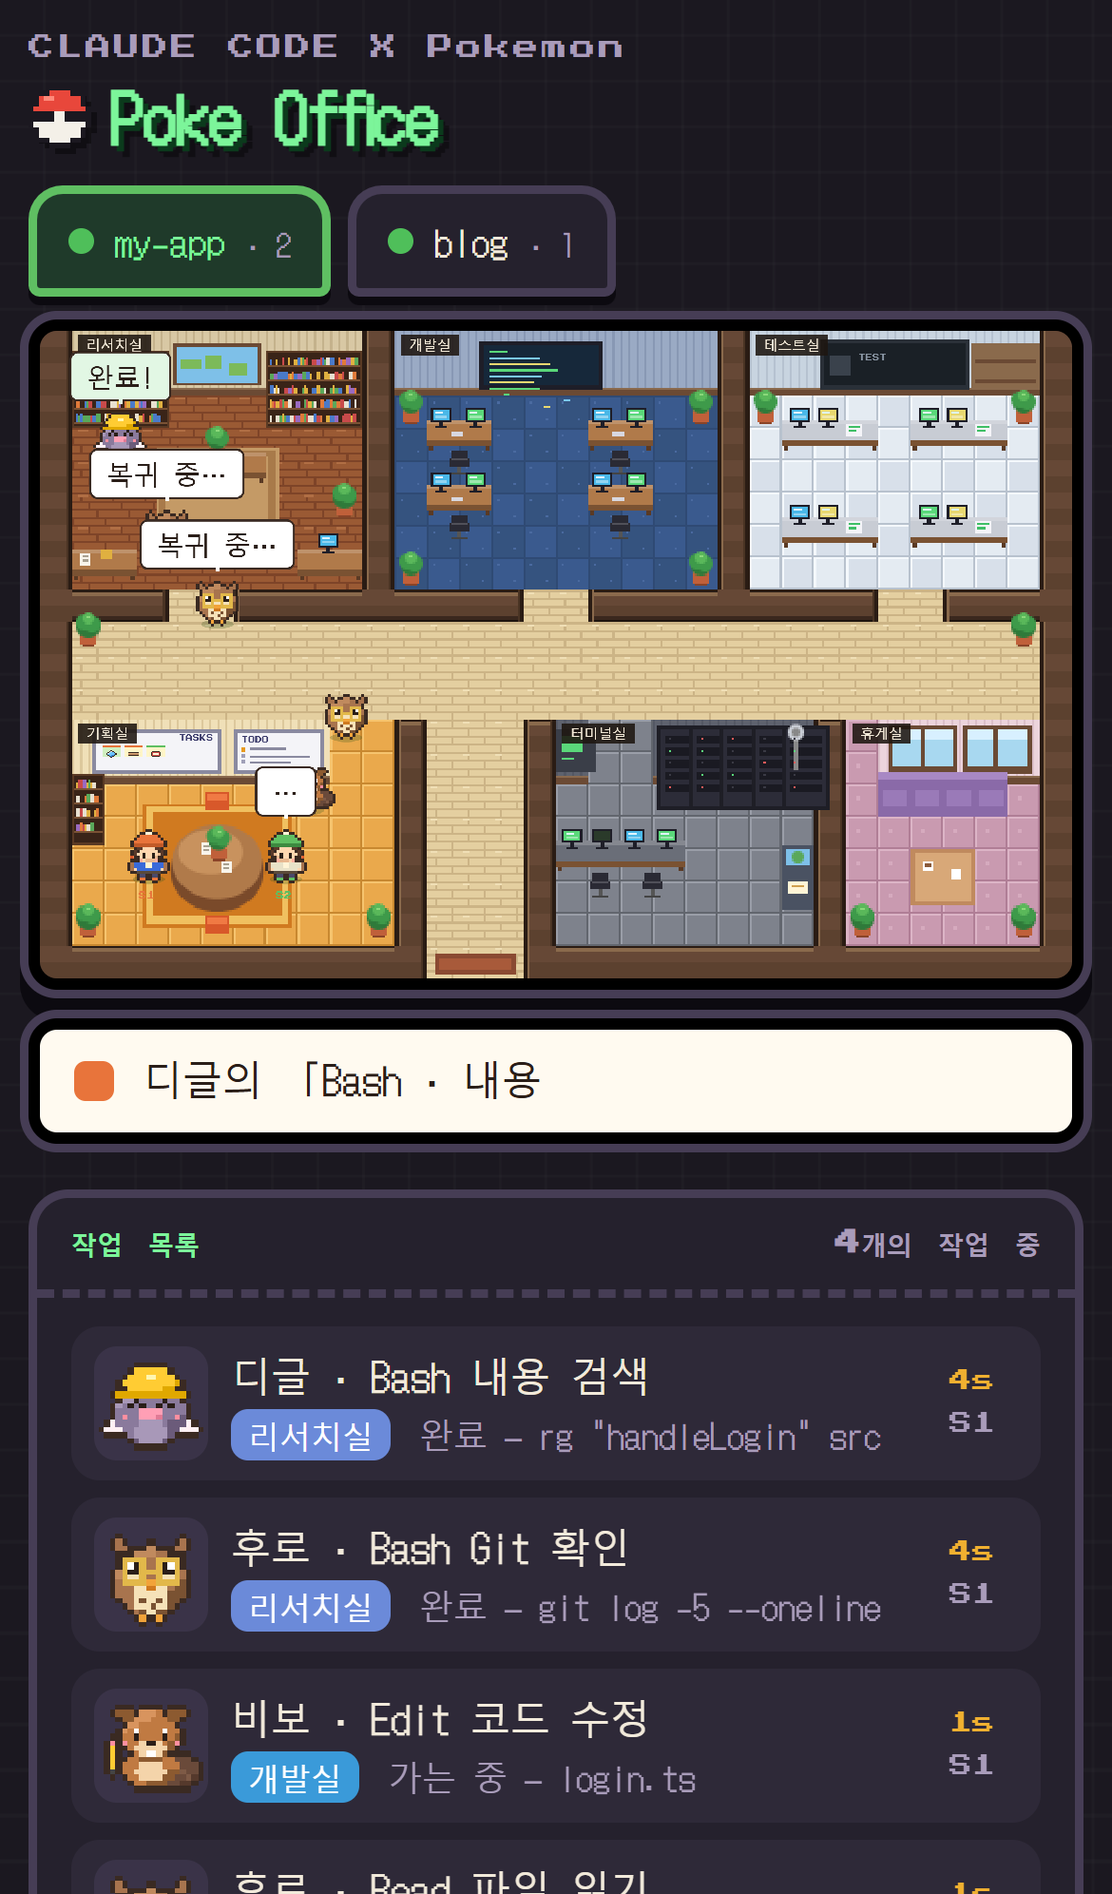
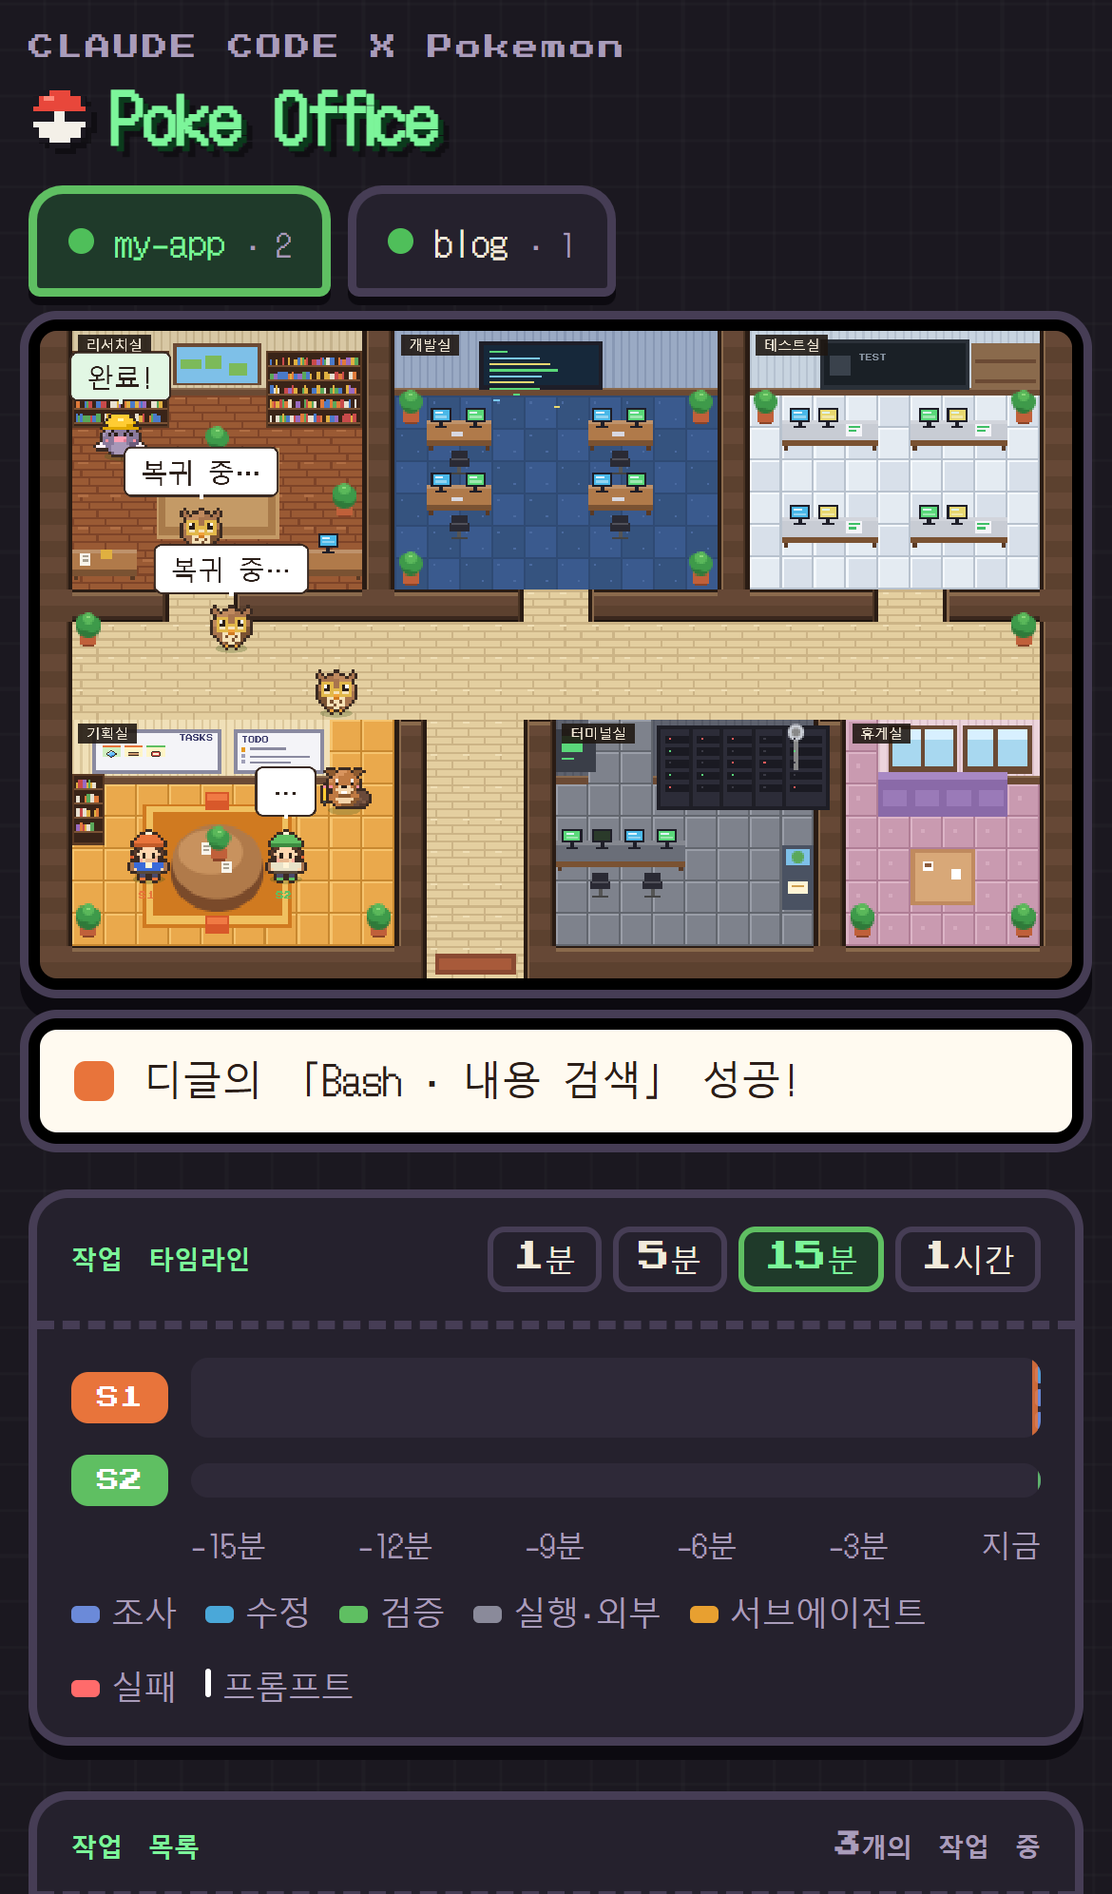
feat: work timeline, manual session finder, and usage-limit HP bars
- Timeline under the office shows each session's tool runs as room-colored blocks (1m/5m/15m/1h)
- Session finder button loads Claude Code sessions written in the last hour from the transcript folder
- Header shows remaining 5-hour and weekly limits as HP bars when the status line cache exists

diff --git a/index.html b/index.html
@@ -108,6 +108,27 @@ pre{font-size:11.5px;background:#14111a;border-radius:10px;padding:8px;overflow:
 .tip{position:fixed;z-index:40;pointer-events:none;max-width:260px;padding:6px 10px;background:#fffaf0;color:#2a1e18;border:3px solid #2a1e18;border-radius:6px;box-shadow:0 0 0 2px #fffaf0,0 0 0 5px #4a4a5e,0 6px 0 5px rgba(0,0,0,.35);font-size:12.5px;line-height:1.5}
 .tip[hidden]{display:none}.tip b{font-size:13.5px}.tip .st{display:inline-block;margin-left:6px;padding:0 5px;border-radius:4px;font-size:11px;color:#fff}
 .tip small{display:block;margin-top:2px;color:#8a7a68;font-size:11px}
+.mini{padding:3px 8px;font-size:11.5px;border-width:2px;border-radius:7px;box-shadow:0 2px 0 var(--shadow)}
+.mini:disabled{opacity:.4;cursor:default}
+#tlPanel{margin-top:16px}
+.rng{display:flex;gap:4px}.rng button{padding:2px 7px;font-size:11px;border-width:2px;border-radius:6px;box-shadow:none}
+.tlrow{display:grid;grid-template-columns:34px 1fr;gap:8px;align-items:center;margin-bottom:6px}
+.tlwho{font-family:'Press Start 2P',monospace;font-size:8px;color:#fff;text-align:center;padding:5px 0;border-radius:6px}
+.tltrack{position:relative;background:var(--panel2);border-radius:6px;overflow:hidden}
+.tltrack .blk{position:absolute;height:6px;min-width:3px;border-radius:2px;cursor:pointer}
+.tltrack .blk:hover{outline:2px solid #fff;z-index:2}
+.tltrack .blk.run{animation:pulse 1s infinite}.tltrack .blk.fail{background:#ff6b6b!important;box-shadow:0 0 0 1px #ffd0d0}
+.tltrack .mk{position:absolute;top:0;bottom:0;width:2px;opacity:.85;cursor:pointer}
+.tlaxis{display:flex;justify-content:space-between;margin:2px 0 0 42px;font-size:10.5px;color:var(--quiet)}
+.tllegend{display:flex;gap:10px;flex-wrap:wrap;margin-top:8px;font-size:11.5px;color:var(--quiet)}
+.tllegend i{display:inline-block;width:10px;height:6px;border-radius:2px;margin-right:4px;vertical-align:1px}
+.limits{display:flex;gap:10px;flex-wrap:wrap}
+.hp{min-width:190px;padding:6px 10px 5px;background:#f6f2e4;color:#2a1e18;border:3px solid #2a1e18;border-radius:8px 8px 8px 2px;box-shadow:0 0 0 2px #f6f2e4,0 0 0 5px #4a4a5e}
+.hp .top{display:flex;justify-content:space-between;align-items:baseline;gap:8px;font-size:12.5px}.hp .top b{font-size:13px}
+.hp .bar{display:flex;align-items:center;gap:5px;margin:3px 0 1px}
+.hp .bar span{font-family:'Press Start 2P',monospace;font-size:7px;color:#f8b030;background:#3a3a4a;padding:2px 3px;border-radius:3px}
+.hp .bar div{flex:1;height:8px;background:#5a5a6a;border:2px solid #3a3a4a;border-radius:5px;overflow:hidden}.hp .bar i{display:block;height:100%;transition:width .6s}
+.hp small{display:block;font-size:10.5px;color:#7a6a58;text-align:right}
 footer{margin-top:18px;color:var(--quiet);font-size:12px;line-height:1.6}
 .speed{display:flex;gap:4px}
 </style>
@@ -119,6 +140,7 @@ footer{margin-top:18px;color:var(--quiet);font-size:12px;line-height:1.6}
       <div class="kicker">CLAUDE CODE X Pokemon</div>
       <h1><svg class="pball" viewBox="0 0 12 12" shape-rendering="crispEdges" aria-hidden="true"><path fill="#1b1820" d="M4 0h4v1h2v1h1v2h1v4h-1v2h-1v1h-2v1H4v-1H2v-1H1V8H0V4h1V2h1V1h2z"/><path fill="#e8473b" d="M4 1h4v1h2v2h1v1H1V4h1V2h2z"/><path fill="#ff8a7a" d="M3 2h2v1H3z"/><path fill="#f4f0e8" d="M1 7h10v1h-1v2H8v1H4v-1H2V8H1z"/><path fill="#1b1820" d="M1 5h10v2H1z"/><path fill="#f4f0e8" d="M5 5h2v2H5z"/></svg>Poke Office</h1>
     </div>
+    <div class="limits" id="limits" hidden></div>
   </header>
 
   <div class="grid">
@@ -131,6 +153,10 @@ footer{margin-top:18px;color:var(--quiet);font-size:12px;line-height:1.6}
       <div class="towns" id="towns"></div>
       <div class="stage"><canvas id="office" width="2048" height="1280" aria-label="픽셀 사무실"></canvas></div>
       <div id="dlgBox"><i id="dlgDot"></i><span id="dlgText"></span><button class="more" id="dlgMore" hidden title="더보기">▾</button></div>
+      <section class="panel" id="tlPanel">
+        <h2>작업 타임라인 <span class="rng" id="tlRange"><button data-m="1">1분</button><button data-m="5">5분</button><button data-m="15" class="on">15분</button><button data-m="60">1시간</button></span></h2>
+        <div class="body"><div id="tl"></div><div class="tllegend" id="tlLegend"></div></div>
+      </section>
     </div>
 
     <div class="side">
@@ -140,7 +166,7 @@ footer{margin-top:18px;color:var(--quiet);font-size:12px;line-height:1.6}
       </section>
 
       <section class="panel">
-        <h2>세션</h2>
+        <h2>세션 <span style="display:flex;gap:6px;align-items:center"><span id="findMsg" style="font-family:inherit;font-size:11px;color:var(--quiet)"></span><button class="mini" id="findSess" title="최근 1시간 안에 쓴 Claude Code 세션을 찾아요">세션 찾기</button></span></h2>
         <div class="body" id="sessList"></div>
       </section>
 
@@ -465,7 +491,7 @@ const now={t:0};let speed=1,paused=false;const timers=[];const sleep=ms=>new Pro
 const towns=new Map();let active=null;const dexStats={};ROLES.forEach(r=>dexStats[r]={count:0,last:''});
 let LIVE=false;const IDLE_MS=()=>LIVE?5*60e3:30e3;
 function getTown(name){let t=towns.get(name);if(t)return t;
-  t={name,trainers:new Map(),mons:[],jobs:[],todos:[],growth:{done:0,edits:0,plants:0,trophies:0},lastTest:null,ticker:[],fx:[]};
+  t={name,trainers:new Map(),mons:[],jobs:[],hist:[],marks:[],todos:[],growth:{done:0,edits:0,plants:0,trophies:0},lastTest:null,ticker:[],fx:[]};
   towns.set(name,t);if(!active)active=name;renderTowns();return t;}
 function mkMon(role,helper,at){const p=at||randomFloor(HAB[role].room);return{role,helper,x:p.x,y:p.y,path:[],state:'wander',pause:rand(300,2500),idle:0,job:null,face:1,t:0,carry:false};}
 function goTo(o,x,y){o.path=findPath(o.x,o.y,x,y);}
@@ -491,7 +517,7 @@ function handleEvent(ev){
   const act=resolveAction(ev.tool,ev);const role=act.role;
   switch(ev.kind){
     case 'session_start':break;
-    case 'prompt':toSeat(tr);tr.prompt=ev.full||ev.detail||'';tr.state='think';tr.bubble=`"${(ev.detail||'').slice(0,16)}"`;setTimeout(()=>{if(tr.bubble&&tr.bubble.startsWith('"'))tr.bubble='…';},2500/speed);
+    case 'prompt':toSeat(tr);tr.prompt=ev.full||ev.detail||'';town.marks.push({t:now.t,wall:Date.now(),tr,text:tr.prompt});if(town.marks.length>200)town.marks.shift();tr.state='think';tr.bubble=`"${(ev.detail||'').slice(0,16)}"`;setTimeout(()=>{if(tr.bubble&&tr.bubble.startsWith('"'))tr.bubble='…';},2500/speed);
 
       ticker(town,`${tname(tr)}: "${tr.prompt||'새 지시'}"`,tr);log('prompt',`${town.name}·${tr.no} ${tr.prompt}`);break;
     case 'tool_start':
@@ -518,14 +544,14 @@ function releaseMon(town,tr,mo){mo.owner=tr;const p=besideTrainer(town,tr);mo.x=
 function recallMon(town,mo){const tr=mo.owner;if(!tr||!town.trainers.has(tr.id)){mo.state='vanish';mo.t=350;town.fx.push({type:'poof',x:mo.x,y:mo.y-10,t:0});return;}
   mo.state='return';const p=besideTrainer(town,tr);goTo(mo,p.x,p.y);}
 function newJob(town,tr,ev,act){const role=act.role;const job={id:ev.id||`${ev.session}:${ev.tool}:${now.t}:${Math.random()}`,tool:act.tool,rawTool:ev.tool,label:act.label,key:`${ev.session}:${ev.tool}`,role,detail:ev.detail||ev.tool,full:ev.full||ev.cmd||ev.detail||ev.tool,tr,ok:undefined,start:now.t,endAt:null,mon:null};
-  town.jobs.push(job);tr.state='think';town.restMode=false;
+  job.wall=Date.now();town.jobs.push(job);town.hist.push(job);if(town.hist.length>800)town.hist.shift();tr.state='think';town.restMode=false;
   const mon=mkMon(role,false,{x:tr.x,y:tr.y});town.mons.push(mon);releaseMon(town,tr,mon);
   mon.job=job;job.mon=mon;
   ticker(town,`${tname(tr)}: 가라, ${nameOf(role)}! — 「${actText(act)}」 ${job.detail} (${HAB[role].name})`,tr);log('tool_start',`${town.name}·${tr.no} ${ev.tool} (${act.label}): ${job.full}`);}
 function findJob(town,tr,ev){let j=ev.id&&town.jobs.find(x=>x.id===ev.id&&x.ok===undefined);if(!j)j=town.jobs.find(x=>x.key===`${ev.session}:${ev.tool}`&&x.ok===undefined);if(!j)j=town.jobs.find(x=>x.rawTool===ev.tool&&x.ok===undefined);return j;}
-function spawnSub(town,tr,ev){const mo=mkMon('sub',true,{x:tr.x,y:tr.y});mo.subOf=tr.id;mo.job={detail:ev.detail||'조사'};mo.afterAppear='subwork';town.mons.push(mo);releaseMon(town,tr,mo);
+function spawnSub(town,tr,ev){const mo=mkMon('sub',true,{x:tr.x,y:tr.y});mo.subOf=tr.id;mo.job={detail:ev.detail||'조사',full:ev.full||ev.detail};const rec={role:'sub',tool:'Agent',label:'서브에이전트',detail:ev.detail||'조사',full:ev.full||ev.detail||'',tr,start:now.t,wall:Date.now(),endAt:null,ok:undefined};town.hist.push(rec);mo.rec=rec;mo.afterAppear='subwork';town.mons.push(mo);releaseMon(town,tr,mo);
   ticker(town,`${tname(tr)}의 「Agent · 서브에이전트 출동」! ${josa(nameOf('sub'),'이/가')} 조사하러 나갔다: ${ev.detail||''}`,tr);log('sub',`${town.name}·${tr.no} Task ${ev.detail||''}`);dexStats.sub.count++;dexStats.sub.last=ev.detail||'';renderDex();}
-function endSub(town,tr){const mo=town.mons.find(m=>m.role==='sub'&&m.subOf===tr.id&&!['return','recall','vanish'].includes(m.state));if(!mo)return;mo.carry=true;recallMon(town,mo);
+function endSub(town,tr){const mo=town.mons.find(m=>m.role==='sub'&&m.subOf===tr.id&&!['return','recall','vanish'].includes(m.state));if(!mo)return;if(mo.rec){mo.rec.endAt=now.t;mo.rec.ok=true;}mo.carry=true;recallMon(town,mo);
   ticker(town,`${josa(nameOf('sub'),'이/가')} 조사 결과를 들고 돌아왔다!`,tr);log('sub',`${town.name}·${tr.no} SubagentStop`);}
 function sendRest(){}
 
@@ -589,7 +615,48 @@ function fitMore(d,title,body,raw){const btn=d.querySelector('.more');if(!btn)re
   const shown=[...d.querySelectorAll('.txt > div')];const over=shown.some(x=>x.scrollWidth>x.clientWidth+1);
   const longer=raw&&!shown.some(x=>x.textContent.includes(raw));btn.hidden=!(over||longer);
   btn.onclick=e=>{e.stopPropagation();openModal(title,body||shown.map(x=>x.textContent).join('\n'));};}
-function renderSide(){renderWork();renderSessions();}
+function renderSide(){renderWork();renderSessions();renderTimeline();}
+// 작업 타임라인: 세션(트레이너)마다 한 줄, 툴 실행을 방 색 블록으로. 겹치는 작업은 아래 칸으로 내려요
+let TLW=15*60e3,tlItems=[];
+const roleColor=r=>r==='sub'?ROOMS.plan.tag:ROOMS[HAB[r].room].tag;
+const wallClock=w=>new Date(w).toTimeString().slice(0,8);
+function renderTimeline(){const el=$('tl');if(!el)return;const t=towns.get(active);tlItems=[];
+  const t1=now.t,t0=t1-TLW,pct=v=>Math.max(0,Math.min(100,(v-t0)/TLW*100));
+  const items=t?t.hist.filter(j=>(j.endAt??t1)>=t0):[],marks=t?t.marks.filter(m=>m.t>=t0):[];
+  if(!items.length&&!marks.length){el.innerHTML='<div class="empty">이 시간 동안 기록된 작업이 없어요.<br><span style="font-size:12px">Claude Code가 툴을 쓰면 여기에 시간순으로 쌓여요.</span></div>';$('tlLegend').innerHTML='';return;}
+  const rows=new Map();const rowOf=tr=>{if(!rows.has(tr.no))rows.set(tr.no,{tr,blocks:[],marks:[]});return rows.get(tr.no);};
+  items.forEach(j=>rowOf(j.tr).blocks.push(j));marks.forEach(m=>rowOf(m.tr).marks.push(m));
+  let html='';
+  [...rows.values()].sort((a,b)=>a.tr.no-b.tr.no).forEach(row=>{const lanes=[];
+    const blks=row.blocks.sort((a,b)=>a.start-b.start).map(j=>{const end=j.endAt??t1;let l=lanes.findIndex(e=>e<=j.start);if(l<0){l=lanes.length;lanes.push(0);}lanes[l]=end;return{j,end,l};});
+    const n=Math.max(1,lanes.length);let inner='';
+    blks.forEach(({j,end,l})=>{const i=tlItems.push({type:'job',j})-1;const cls=j.ok===undefined?'run':j.ok?'':'fail';
+      inner+=`<i class="blk ${cls}" data-i="${i}" style="left:${pct(j.start)}%;width:${Math.max(.35,pct(end)-pct(j.start))}%;top:${3+l*8}px;background:${roleColor(j.role)}"></i>`;});
+    row.marks.forEach(m=>{const i=tlItems.push({type:'mark',m})-1;inner+=`<i class="mk" data-i="${i}" style="left:${pct(m.t)}%;background:${HATS[m.tr.color][0]}"></i>`;});
+    html+=`<div class="tlrow"><div class="tlwho" style="background:${HATS[row.tr.color][0]}">S${row.tr.no}</div><div class="tltrack" style="height:${n*8+4}px">${inner}</div></div>`;});
+  // 눈금은 딱 떨어지게: 1분=15초 간격, 5분=1분, 15분=3분, 1시간=15분
+  const m=TLW/60e3,n={1:4,5:5,15:5,60:4}[m]||4,lab=v=>v<1?`${Math.round(v*60)}초`:`${v}분`;
+  html+=`<div class="tlaxis">${Array.from({length:n},(_,i)=>`<span>-${lab(m*(n-i)/n)}</span>`).join('')}<span>지금</span></div>`;
+  el.innerHTML=html;
+  if(!$('tlLegend').innerHTML)$('tlLegend').innerHTML=[['research','조사'],['dev','수정'],['test','검증'],['term','실행·외부'],['plan','서브에이전트']].map(([k,n])=>`<span><i style="background:${ROOMS[k].tag}"></i>${n}</span>`).join('')+'<span><i style="background:#ff6b6b"></i>실패</span><span><i style="background:#fff;width:2px;height:10px"></i>프롬프트</span>';}
+function tlInfo(it){if(it.type==='mark'){const m=it.m;return{title:`${tname(m.tr)} · 프롬프트`,tip:`<b>${tname(m.tr)}</b><span class="st" style="background:${HATS[m.tr.color][0]}">프롬프트</span><br>"${esc(m.text.slice(0,60))}${m.text.length>60?'…':''}"<small>${wallClock(m.wall)} · 클릭하면 전체 보기</small>`,body:`보낸 시각: ${wallClock(m.wall)}\n\n${m.text}`};}
+  const j=it.j,st=j.ok===undefined?'진행 중':j.ok?'완료':'실패',dur=fmtSec((j.endAt??now.t)-j.start);
+  return{title:`${tname(j.tr)} · ${j.tool} ${j.label}`,tip:`<b>${esc(j.tool)} · ${esc(j.label)}</b><span class="st" style="background:${j.ok===false?'#e85a5a':roleColor(j.role)}">${st}</span><br>${esc(String(j.detail||'').slice(0,50))}<small>${tname(j.tr)} · ${wallClock(j.wall)} 시작 · ${dur}</small>`,
+    body:`상태: ${st}\n시작: ${wallClock(j.wall)} · 걸린 시간: ${dur}\n담당: ${nameOf(j.role)} (${j.role==='sub'?'기획실':HAB[j.role].name})\n\n${j.full||j.detail}`};}
+$('tl').addEventListener('mousemove',e=>{const b=e.target.closest('[data-i]');if(!b)return showTip(null,'');const it=tlItems[+b.dataset.i];if(it)showTip(e,tlInfo(it).tip);});
+$('tl').addEventListener('mouseleave',()=>showTip(null,''));
+$('tl').addEventListener('click',e=>{const b=e.target.closest('[data-i]');if(!b)return;const it=tlItems[+b.dataset.i];if(!it)return;const x=tlInfo(it);showTip(null,'');openModal(x.title,x.body);});
+document.querySelectorAll('#tlRange button').forEach(b=>b.onclick=()=>{document.querySelectorAll('#tlRange button').forEach(x=>x.classList.toggle('on',x===b));TLW=+b.dataset.m*60e3;renderTimeline();});
+// 세션 찾기: 훅이 아직 안 들어온(이미 열려 있던) Claude Code 세션도 대화 기록 폴더에서 찾아 트레이너로 불러와요
+async function findSessions(){const btn=$('findSess'),msg=$('findMsg');if(!SRC.server){msg.textContent='서버에서만 쓸 수 있어요';return;}
+  btn.disabled=true;msg.textContent='찾는 중…';
+  try{const list=await(await fetch('api/sessions?minutes=60',{cache:'no-store'})).json();let added=0;
+    list.forEach(x=>{const name=String(x.cwd).split(/[\\/]/).filter(Boolean).pop()||'my-project';const t=towns.get(name);if(t&&t.trainers.has(x.session))return;
+      handleEvent({kind:'session_start',session:x.session,cwd:x.cwd});const tr=getTown(name).trainers.get(x.session);if(tr&&x.prompt)tr.prompt=x.prompt;added++;});
+    msg.textContent=added?`${added}개 찾았어요`:list.length?'새 세션이 없어요':'최근 1시간 안에 쓴 세션이 없어요';log('session',`세션 찾기: ${added}개 추가 (최근 1시간 ${list.length}개)`);renderTowns();renderSide();}
+  catch{msg.textContent='찾지 못했어요';}
+  btn.disabled=false;setTimeout(()=>{msg.textContent='';},4000);}
+$('findSess').onclick=findSessions;
 function renderWork(){const t=towns.get(active);const el=$('workList');if(!el)return;
   const jobs=t?t.jobs:[];const subs=t?t.mons.filter(m=>m.role==='sub'&&m.state==='subwork'):[];
   {const n=jobs.length+subs.length;$('workSum').textContent=n?`${n}개의 작업 중`:'';}
@@ -613,7 +680,16 @@ function renderSessions(){const t=towns.get(active);const el=$('sessList');if(!e
     c.querySelector('.a').textContent=`${tname(tr)} · ${st}`;c.querySelector('.b').textContent=tr.prompt?`"${tr.prompt}"`:`세션 ID: ${String(tr.id).slice(0,8)}`;el.appendChild(c);fitMore(c,`${tname(tr)} · ${st}`,tr.prompt?`보낸 프롬프트\n\n${tr.prompt}`:'',tr.prompt);});
   if(t.todos.length){const d=document.createElement('div');d.style.cssText='margin-top:8px;font-size:13px;line-height:1.7';d.innerHTML='<div class="muted" style="font-size:12px">화이트보드 할 일</div>';
     t.todos.forEach(td=>{const x=document.createElement('div');x.textContent=(td.s==='done'?'☑ ':td.s==='doing'?'▶ ':'☐ ')+td.text;if(td.s==='done')x.style.color='var(--quiet)';d.appendChild(x);});el.appendChild(d);}}
-setInterval(()=>{if(!paused)renderWork();},1000);
+setInterval(()=>{if(!paused){renderWork();renderTimeline();}},1000);
+// Claude 사용 한도 (5시간 · 주간): 남은 양을 HP 바처럼. 상태줄 캐시가 없으면 숨김
+async function loadLimits(){const el=$('limits');if(!SRC.server)return;let j;try{j=await(await fetch('api/limits',{cache:'no-store'})).json();}catch{return;}
+  if(!j.available){el.hidden=true;return;}
+  const card=(name,w,fmt)=>{if(!w)return'';const r=w.resetsAt?new Date((typeof w.resetsAt==='number'?w.resetsAt*1000:Date.parse(w.resetsAt))):null;
+    const done=r&&r<=new Date();const left=done?100:Math.max(0,Math.min(100,Math.round(100-w.used)));const col=left>50?'#48c060':left>20?'#f0b020':'#e84838';
+    const when=r&&!done?(fmt==='t'?r.toTimeString().slice(0,5):`${r.getMonth()+1}/${r.getDate()} ${r.toTimeString().slice(0,5)}`)+' 초기화':'';
+    return `<div class="hp" title="${name} 사용 한도: ${done?'초기화됨':`${Math.round(w.used)}% 사용`}"><div class="top"><b>${name}</b><span>남은 ${left}%</span></div><div class="bar"><span>HP</span><div><i style="width:${left}%;background:${col}"></i></div></div><small>${when||'&nbsp;'}</small></div>`;};
+  el.innerHTML=card('5시간',j.fiveHour,'t')+card('주간',j.sevenDay,'d');el.hidden=!el.innerHTML;}
+setInterval(loadLimits,30000);
 function thumb(c,img){const x=c.getContext('2d');x.imageSmoothingEnabled=false;x.clearRect(0,0,48,48);const s=Math.min(44/img.width,44/img.height);const w=img.width*s,h=img.height*s;x.drawImage(img,(48-w)/2,(48-h)/2,w,h);}
 function buildDex(){}
 function renderDex(){buildPack();}
@@ -877,7 +953,7 @@ cv.addEventListener('pointerup',e=>{if(grab)return grabEnd();if(downAt&&Math.hyp
 
 // boot
 (async()=>{const saved=store.get('pokeoffice.pack');if(saved){Object.assign(cfg,saved.cfg||{});ROLES.forEach(r=>{if(!cfg[r])cfg[r]={dex:DEF[r].dex,name:''};});for(const [k,u] of Object.entries(saved.urls||{}))await loadDataUrl(k,u);}
-  await Promise.race([document.fonts?document.fonts.ready:Promise.resolve(),new Promise(r=>setTimeout(r,1500))]);drawMap();buildPack();renderSide();requestAnimationFrame(frame);await detectSource();await applyDefaults();buildPack();if(SRC.server)connectLive();else startDemo();})();
+  await Promise.race([document.fonts?document.fonts.ready:Promise.resolve(),new Promise(r=>setTimeout(r,1500))]);drawMap();buildPack();renderSide();requestAnimationFrame(frame);await detectSource();await applyDefaults();buildPack();if(SRC.server){connectLive();loadLimits();}else startDemo();})();
 })();
 </script>
 </body>

diff --git a/README.md b/README.md
@@ -153,7 +153,9 @@ Node·git·스프라이트·서버·훅 연결을 차례로 확인하고, 문제
 ## 화면 보는 법
 
 - **작업 목록**: 어떤 포켓몬이 어느 방에서 무슨 파일·명령을 처리하는지, 몇 초째인지
-- **세션**: Claude Code 창(트레이너)별 상태와 마지막 프롬프트, 화이트보드 할 일
+- **세션**: Claude Code 창(트레이너)별 상태와 마지막 프롬프트, 화이트보드 할 일. **세션 찾기**를 누르면 최근 1시간 안에 쓴 Claude Code 세션을 대화 기록 폴더에서 찾아 바로 불러와요 (서버를 켜기 전부터 열려 있던 창도 보여요)
+- **작업 타임라인**: 세션마다 툴 실행을 방 색깔 블록으로 시간순으로 보여줘요 (1분 · 5분 · 15분 · 1시간). 블록에 마우스를 올리면 설명, 누르면 원문
+- **사용 한도 (오른쪽 위)**: Claude 5시간 · 주간 한도의 남은 양을 HP 바로 보여줘요. Claude Code 상태줄(statusLine)이 받은 `rate_limits` 를 `~/.claude/statusline-cache.json` 에 저장해 둔 경우에만 보여요
 - **내 파티**: 역할별 포켓몬과 일한 횟수, **변경** 버튼으로 포켓몬 바꾸기
 - **활동 기록**: 보낸 프롬프트, 툴 실행, Claude가 CLI에 남긴 말. **전체 기록 보기**로 모두 볼 수 있어요
 - **연결**: 서버 연결 상태와 연결 구조
